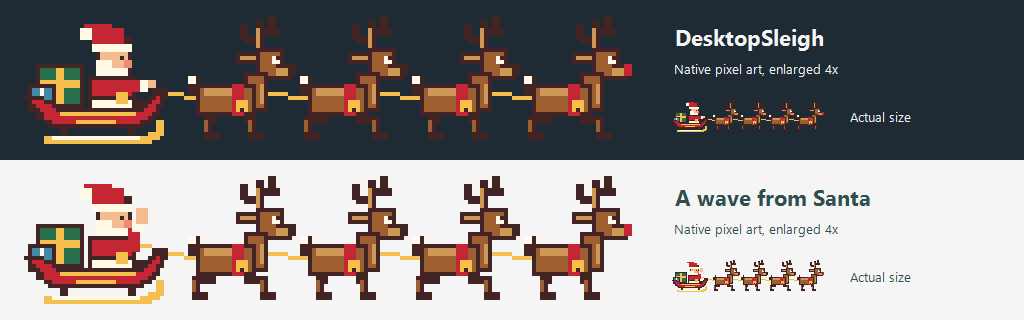
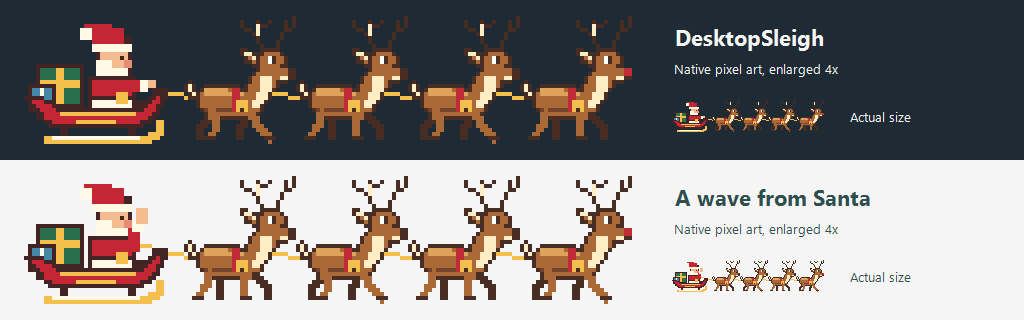
Apply selected refined-retro reindeer design
Match the approved option with branching antlers, cream coats and a natural four-legged trot for all four reindeer; refresh the native preview.

diff --git a/SleighArt.cs b/SleighArt.cs
@@ -12,8 +12,6 @@ internal static class SleighArt
     private static readonly Color Red = Color.FromArgb(196, 38, 51);
     private static readonly Color Gold = Color.FromArgb(244, 191, 76);
     private static readonly Color Snow = Color.FromArgb(255, 249, 229);
-    private static readonly Color Brown = Color.FromArgb(157, 94, 49);
-    private static readonly Color Tan = Color.FromArgb(207, 151, 87);
 
     public static Bitmap CreateFrame(int step, bool waving)
     {
@@ -37,50 +35,69 @@ internal static class SleighArt
 
     private static void DrawReindeer(Graphics g, int x, int step, bool lead)
     {
-        void Block(Color color, int left, int top, int width, int height) =>
-            Fill(g, color, x + left, top, width, height);
+        GraphicsState state = g.Save();
+        g.TranslateTransform(x, 0);
+        g.SetClip(new Rectangle(0, 0, 28, Height));
+        Color outline = Color.FromArgb(72, 45, 37);
+        Color coat = Color.FromArgb(170, 105, 54);
+        Color shade = Color.FromArgb(116, 67, 43);
+        Color cream = Color.FromArgb(255, 237, 197);
+        Color red = Color.FromArgb(191, 43, 54);
 
-        // Forked antlers and ears remain legible at the smallest pet size.
-        Block(Outline, 18, 1, 2, 9);
-        Block(Outline, 14, 2, 2, 4);
-        Block(Outline, 15, 5, 5, 2);
-        Block(Outline, 21, 0, 2, 5);
-        Block(Outline, 19, 3, 5, 2);
-        Block(Tan, 18, 3, 1, 5);
-        Block(Outline, 13, 9, 6, 3);
-        Block(Tan, 14, 10, 4, 1);
-        Block(Outline, 18, 8, 7, 8);
-        Block(Brown, 19, 9, 5, 6);
-        Block(Outline, 23, 12, 4, 4);
-        Block(Tan, 23, 13, 3, 2);
-        Block(lead ? Red : Outline, 26, 12, 2, 3);
-        Block(Snow, 22, 10, 2, 2);
-        Block(Outline, 23, 10, 1, 1);
+        Stroke(g, outline, 1, new(19, 8), new(18, 5), new(18, 1));
+        Stroke(g, outline, 1, new(18, 4), new(15, 3), new(14, 1));
+        Stroke(g, outline, 1, new(18, 3), new(21, 1));
+        Stroke(g, outline, 1, new(22, 8), new(24, 5), new(25, 1));
+        Stroke(g, outline, 1, new(24, 4), new(27, 2), new(27, 0));
+        Stroke(g, cream, 1, new(18, 2), new(18, 4));
+        Stroke(g, outline, 2, new(7, 23), new(step == 0 ? 4 : 9, 27), new(step == 0 ? 3 : 8, 30));
+        Stroke(g, outline, 2, new(16, 23), new(step == 0 ? 14 : 20, 27), new(step == 0 ? 13 : 21, 30));
+        Shape(g, coat, outline, new(3, 19), new(5, 17), new(11, 17), new(15, 18), new(16, 15),
+            new(18, 13), new(18, 9), new(20, 8), new(23, 8), new(25, 10), new(24, 12), new(27, 13),
+            new(27, 15), new(23, 16), new(22, 18), new(20, 21), new(18, 24), new(15, 25),
+            new(8, 25), new(5, 24), new(3, 22));
+        Shape(g, Color.FromArgb(221, 163, 91), null, new(5, 18), new(11, 18), new(15, 19), new(15, 20), new(5, 20));
+        Shape(g, shade, null, new(5, 22), new(9, 23), new(16, 23), new(15, 24), new(8, 24), new(5, 23));
+        Shape(g, cream, null, new(19, 15), new(22, 15), new(21, 19), new(18, 23), new(16, 23), new(18, 19));
+        Shape(g, coat, outline, new(18, 10), new(14, 8), new(15, 11), new(18, 12));
+        Stroke(g, cream, 1, new(15, 9), new(17, 10));
+        Fill(g, Color.White, 21, 10, 2, 2);
+        Fill(g, outline, 22, 10, 1, 2);
+        Fill(g, lead ? red : outline, 26, 13, 2, 2);
+        Fill(g, cream, 24, 15, 2, 1);
+        Shape(g, cream, outline, new(3, 19), new(1, 16), new(0, 17), new(1, 20), new(3, 21));
+        Stroke(g, coat, 2, new(6, 23), new(step == 0 ? 8 : 5, 27), new(step == 0 ? 6 : 3, 30));
+        Stroke(g, coat, 2, new(16, 23), new(step == 0 ? 18 : 14, 27), new(step == 0 ? 21 : 15, 30));
+        Fill(g, outline, step == 0 ? 5 : 2, 30, 3, 1);
+        Fill(g, outline, step == 0 ? 20 : 14, 30, 3, 1);
+        Fill(g, red, 12, 18, 2, 6);
+        Fill(g, Gold, 13, 21, 3, 3);
+        Fill(g, outline, 14, 23, 1, 1);
+        g.Restore(state);
+    }
 
-        Block(Outline, 15, 14, 6, 10);
-        Block(Brown, 16, 15, 4, 8);
-        Block(Tan, 19, 17, 1, 5);
-        Block(Outline, 3, 17, 15, 8);
-        Block(Brown, 4, 18, 13, 6);
-        Block(Tan, 5, 18, 10, 2);
-        Block(Outline, 1, 15, 3, 5);
-        Block(Snow, 1, 15, 2, 2);
-        Block(Red, 12, 17, 3, 8);
-        Block(Gold, 13, 21, 3, 3);
-        Block(Outline, 14, 23, 1, 1);
+    private static void Stroke(Graphics g, Color color, float width, params PointF[] points)
+    {
+        using var pen = new Pen(color, width)
+        {
+            StartCap = LineCap.Round,
+            EndCap = LineCap.Round,
+            LineJoin = LineJoin.Round
+        };
+        g.DrawLines(pen, points);
+    }
 
-        int back = step == 1 ? 2 : 5;
-        int front = step == 1 ? 19 : 16;
-        Block(Outline, 6, 24, 2, 3);
-        Block(Outline, Math.Min(6, back), 25, Math.Abs(6 - back) + 2, 2);
-        Block(Outline, back, 26, 2, 4);
-        Block(Brown, back, 26, 1, 3);
-        Block(Outline, back, 29, 4, 2);
-        Block(Outline, 15, 24, 2, 3);
-        Block(Outline, Math.Min(15, front), 25, Math.Abs(15 - front) + 2, 2);
-        Block(Outline, front, 26, 2, 4);
-        Block(Brown, front, 26, 1, 3);
-        Block(Outline, front, 29, 4, 2);
+    private static void Shape(Graphics g, Color fill, Color? outline, params PointF[] points)
+    {
+        using var path = new GraphicsPath();
+        path.AddPolygon(points);
+        using var brush = new SolidBrush(fill);
+        g.FillPath(brush, path);
+        if (outline is Color color)
+        {
+            using var pen = new Pen(color) { LineJoin = LineJoin.Round };
+            g.DrawPath(pen, path);
+        }
     }
 
     private static void DrawSleigh(Graphics g, bool waving)

diff --git a/Tests/Program.cs b/Tests/Program.cs
@@ -104,7 +104,7 @@ internal static class Program
             "Santa must visibly raise his hand.");
         Require(CountDifferent(standing, trotting, new Rectangle(0, 0, 37, 32)) == 0,
             "The sleigh and rider must not distort while the reindeer trot.");
-        Require(standing.GetPixel(standing.Width - 1, 0).A == 0 && standing.GetPixel(0, 0).A == 0,
+        Require(standing.GetPixel(37, 0).A == 0 && standing.GetPixel(0, 0).A == 0,
             "The sprite must retain its transparent background.");
 
         foreach (int size in new[] { 24, 32, 48 })
